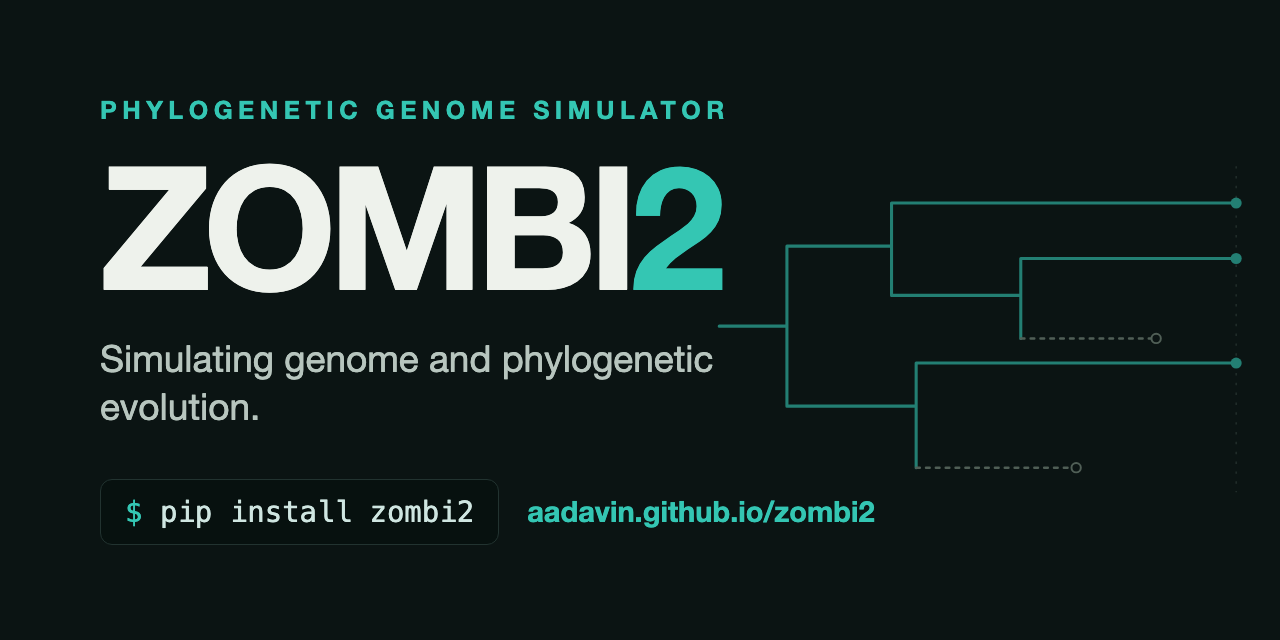
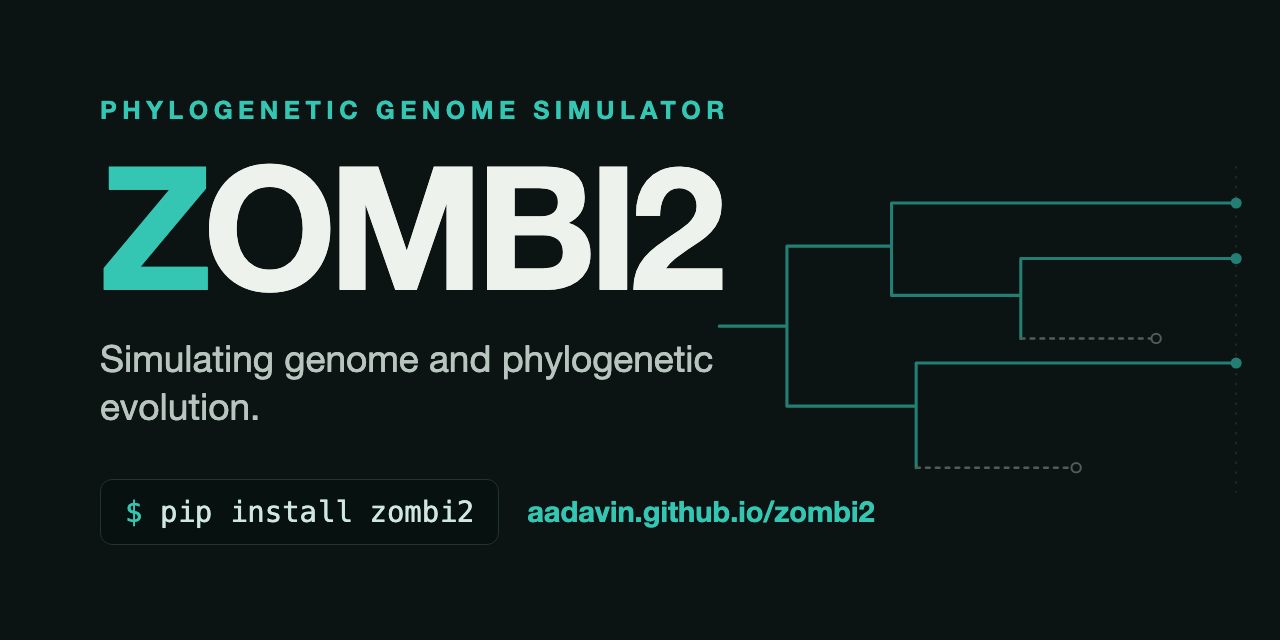
feat(site): the Z is the mark
The name was followed everywhere by a small tree — in the header, in the hero, in the
browser tab — so there were two things to recognise and the smaller one was
unreadable at 16 px. The Z of ZOMBI2 is the mark now: it takes the accent and the rest
of the name takes the ink of whatever it sits on, black on the page and white in the
footer. The favicon is that same Z on the dark tile, drawn as strokes rather than as
text so it renders the same wherever it is opened rather than in whatever font the
viewer happens to have. The social card follows, from its own source in `assets/`.

Changed region(s): [[0.0625, 0.25, 0.1875, 0.4688], [0.5, 0.25, 0.5625, 0.4688]]

diff --git a/web/index.html b/web/index.html
@@ -127,8 +127,9 @@
   .nav-inner { display: flex; align-items: center; gap: 20px; height: 62px; }
   .brand { display: inline-flex; align-items: center; gap: 10px; color: var(--ink); font-weight: 700; letter-spacing: -0.01em; font-size: 1.15rem; }
   .brand:hover { text-decoration: none; }
-  .brand svg { display: block; }
-  .brand b { color: var(--accent); }
+  /* the Z is the mark: it takes the accent, and the rest of the name takes the ink of
+     whatever it sits on — dark on the page, white in the footer. */
+  .brand b { color: var(--accent); font-weight: inherit; }
   .nav-links { display: flex; align-items: center; gap: 22px; }
   .nav-links a { color: var(--body); font-size: 0.94rem; font-weight: 500; }
   .nav-links a:hover { color: var(--accent); text-decoration: none; }
@@ -146,7 +147,6 @@
   :root[data-theme="dark"] .theme-toggle .icon-sun { display: block; }
 
   /* ---------- logo mark ---------- */
-  .brand .mark { flex: none; }
 
   /* ---------- hero ---------- */
   .hero { padding: 78px 0 40px; position: relative; overflow: hidden; }
@@ -160,8 +160,7 @@
   }
   .hero-tag { display: inline-flex; align-items: center; gap: 8px; font-size: 0.82rem; font-weight: 600; color: var(--accent-strong); background: var(--accent-soft); padding: 5px 12px; border-radius: 999px; margin-bottom: 24px; }
   .hero h1 { font-size: clamp(2.5rem, 5.6vw, 3.6rem); letter-spacing: -0.025em; }
-  .hero h1 .n { color: var(--accent); }
-  .hero-mark { width: 1.07em; height: 1.07em; margin-left: 0.34em; vertical-align: -0.12em; }
+  .hero h1 .z { color: var(--accent); }
   .hero .lede { font-size: clamp(1.15rem, 2.3vw, 1.4rem); color: var(--body); max-width: 40ch; margin-top: 18px; }
   .hero .sub { margin-top: 20px; max-width: 62ch; color: var(--muted); }
   .hero-actions { display: flex; flex-wrap: wrap; gap: 12px; margin-top: 30px; }
@@ -230,6 +229,7 @@
   .foot h4 { color: #fff; font-size: 0.82rem; letter-spacing: 0.08em; text-transform: uppercase; margin-bottom: 14px; }
   .foot ul { list-style: none; padding: 0; margin: 0; display: grid; gap: 9px; font-size: 0.92rem; }
   .foot .blurb { font-size: 0.92rem; max-width: 32ch; color: #8fa8a3; }
+  .foot .brand-f .z { color: var(--accent-on-dark, #34c6b3); }
   .foot .brand-f { color: #fff; font-weight: 700; font-size: 1.1rem; margin-bottom: 12px; display: inline-flex; gap: 8px; align-items: center; }
   .foot-bottom { margin-top: 42px; padding-top: 20px; border-top: 1px solid #21332f; display: flex; flex-wrap: wrap; gap: 10px 24px; justify-content: space-between; font-size: 0.84rem; color: #7f9893; }
 
@@ -254,17 +254,7 @@
   <header class="nav">
     <div class="wrap nav-inner">
       <a class="brand" href="#top" aria-label="ZOMBI2 home">
-        <span>ZOMBI<b>2</b></span>
-        <svg class="mark" width="27" height="27" viewBox="0 0 28 28" fill="none" aria-hidden="true">
-          <path d="M14 25.5V18" stroke="var(--accent)" stroke-width="2" stroke-linecap="round"/>
-          <path d="M14 18L7.5 9.5" stroke="var(--accent)" stroke-width="2" stroke-linecap="round"/>
-          <path d="M14 18V7" stroke="var(--accent)" stroke-width="2" stroke-linecap="round"/>
-          <path d="M14 18L21 10" stroke="var(--ghost)" stroke-width="2" stroke-linecap="round" stroke-dasharray="2.2 3"/>
-          <circle cx="14" cy="18" r="1.9" fill="var(--accent)"/>
-          <circle cx="7.5" cy="9.5" r="1.9" fill="var(--accent)"/>
-          <circle cx="14" cy="7" r="1.9" fill="var(--accent)"/>
-          <circle cx="21" cy="10" r="1.7" fill="var(--bg)" stroke="var(--ghost)" stroke-width="1.5"/>
-        </svg>
+        <span><b>Z</b>OMBI2</span>
       </a>
       <div class="nav-controls">
         <nav class="nav-links" id="navlinks">
@@ -299,7 +289,7 @@
         <circle class="ghost-tip" cx="330" cy="300" r="3.6" fill="var(--bg)" stroke="var(--ghost)" stroke-width="1.6"/>
       </svg>
       <div class="wrap hero-inner">
-        <h1>ZOMBI<span class="n">2</span><svg class="hero-mark" viewBox="0 0 28 28" fill="none" aria-hidden="true"><path d="M14 25.5V18" stroke="var(--accent)" stroke-width="2" stroke-linecap="round"/><path d="M14 18L7.5 9.5" stroke="var(--accent)" stroke-width="2" stroke-linecap="round"/><path d="M14 18V7" stroke="var(--accent)" stroke-width="2" stroke-linecap="round"/><path d="M14 18L21 10" stroke="var(--ghost)" stroke-width="2" stroke-linecap="round" stroke-dasharray="2.2 3"/><circle cx="14" cy="18" r="1.9" fill="var(--accent)"/><circle cx="7.5" cy="9.5" r="1.9" fill="var(--accent)"/><circle cx="14" cy="7" r="1.9" fill="var(--accent)"/><circle cx="21" cy="10" r="1.7" fill="var(--bg)" stroke="var(--ghost)" stroke-width="1.5"/></svg></h1>
+        <h1><span class="z">Z</span>OMBI2</h1>
         <p class="lede">Simulating genome and phylogenetic evolution.</p>
         <p class="sub">Evolve life end to end — <b>species trees</b>, then <b>genomes</b>, molecular <b>sequences</b> and <b>traits</b> along them. A ground-up redesign of ZOMBI, with a fast, composable Python library and a command-line interface.</p>
         <div class="hero-actions">
@@ -438,7 +428,7 @@ g.write(<span class="s">"out/"</span>)
     <div class="wrap">
       <div class="foot-cols">
         <div>
-          <div class="brand-f">ZOMBI2</div>
+          <div class="brand-f"><span class="z">Z</span>OMBI2</div>
           <p class="blurb">A phylogenetic simulator of species trees, genomes, sequences and traits. Free and open source, MIT-licensed.</p>
         </div>
         <div>

diff --git a/assets/og-image.html b/assets/og-image.html
@@ -14,7 +14,7 @@
   }
   .eyebrow { color: #34c6b3; font-size: 25px; font-weight: 700; letter-spacing: .22em; text-transform: uppercase; margin-bottom: 24px; }
   .word { font-size: 172px; font-weight: 800; letter-spacing: -.05em; line-height: .88; }
-  .word .n { color: #34c6b3; }
+  .word .z { color: #34c6b3; }   /* the Z is the mark */
   .tag { margin-top: 34px; font-size: 37px; line-height: 1.3; color: #b7c5be; font-weight: 400; max-width: 660px; }
   .row { margin-top: 48px; display: flex; align-items: center; gap: 28px; }
   .chip { font-family: ui-monospace, "SF Mono", Menlo, monospace; font-size: 29px; background: #07110f; border: 1px solid #223330; border-radius: 12px; padding: 15px 24px; color: #cfe6e1; }
@@ -35,7 +35,7 @@
   </svg>
   <div class="wrap">
     <div class="eyebrow">Phylogenetic genome simulator</div>
-    <div class="word">ZOMBI<span class="n">2</span></div>
+    <div class="word"><span class="z">Z</span>OMBI2</div>
     <div class="tag">Simulating genome and phylogenetic evolution.</div>
     <div class="row">
       <div class="chip"><span class="p">$</span> pip install zombi2</div>

diff --git a/CHANGELOG.md b/CHANGELOG.md
@@ -21,6 +21,10 @@ which moves the entries below from `[Unreleased]` into a dated version section.
 
 ### Changed
 
+- The site's mark is the **Z** of ZOMBI2 itself — the wordmark carries it, the browser tab is that
+  same Z, and the small tree drawn beside the name is gone. One mark instead of two things to
+  recognise. (#360)
+
 - The examples gallery numbers every example — `Ge3` is the third genome example — and cites it that
   way. The number is derived from the example's position at build time rather than stored, so an
   example can be inserted anywhere and the numbering follows. The page carries the ZOMBI2 version it
